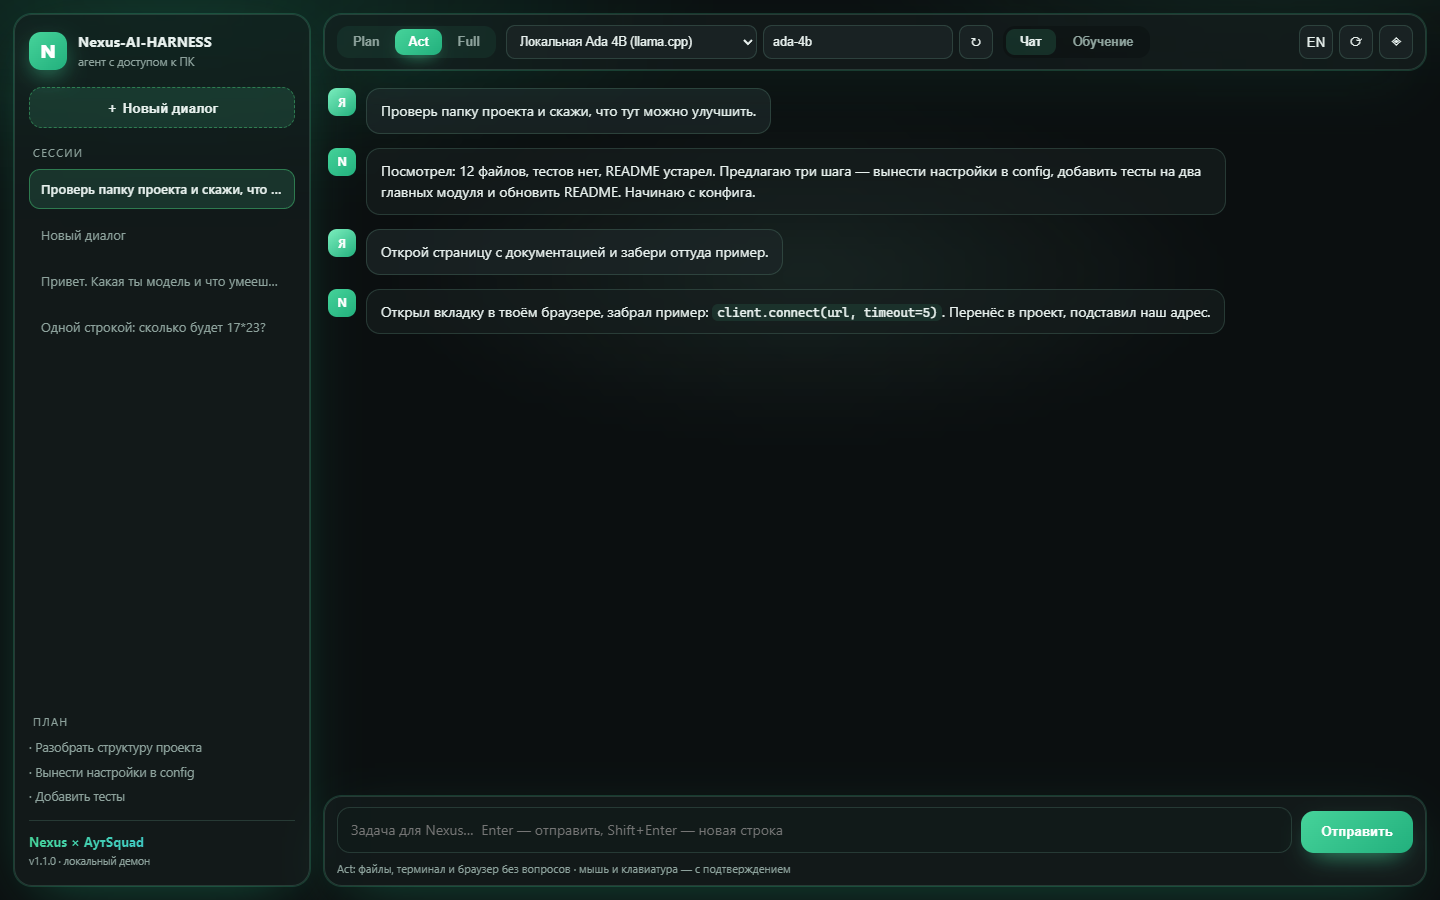
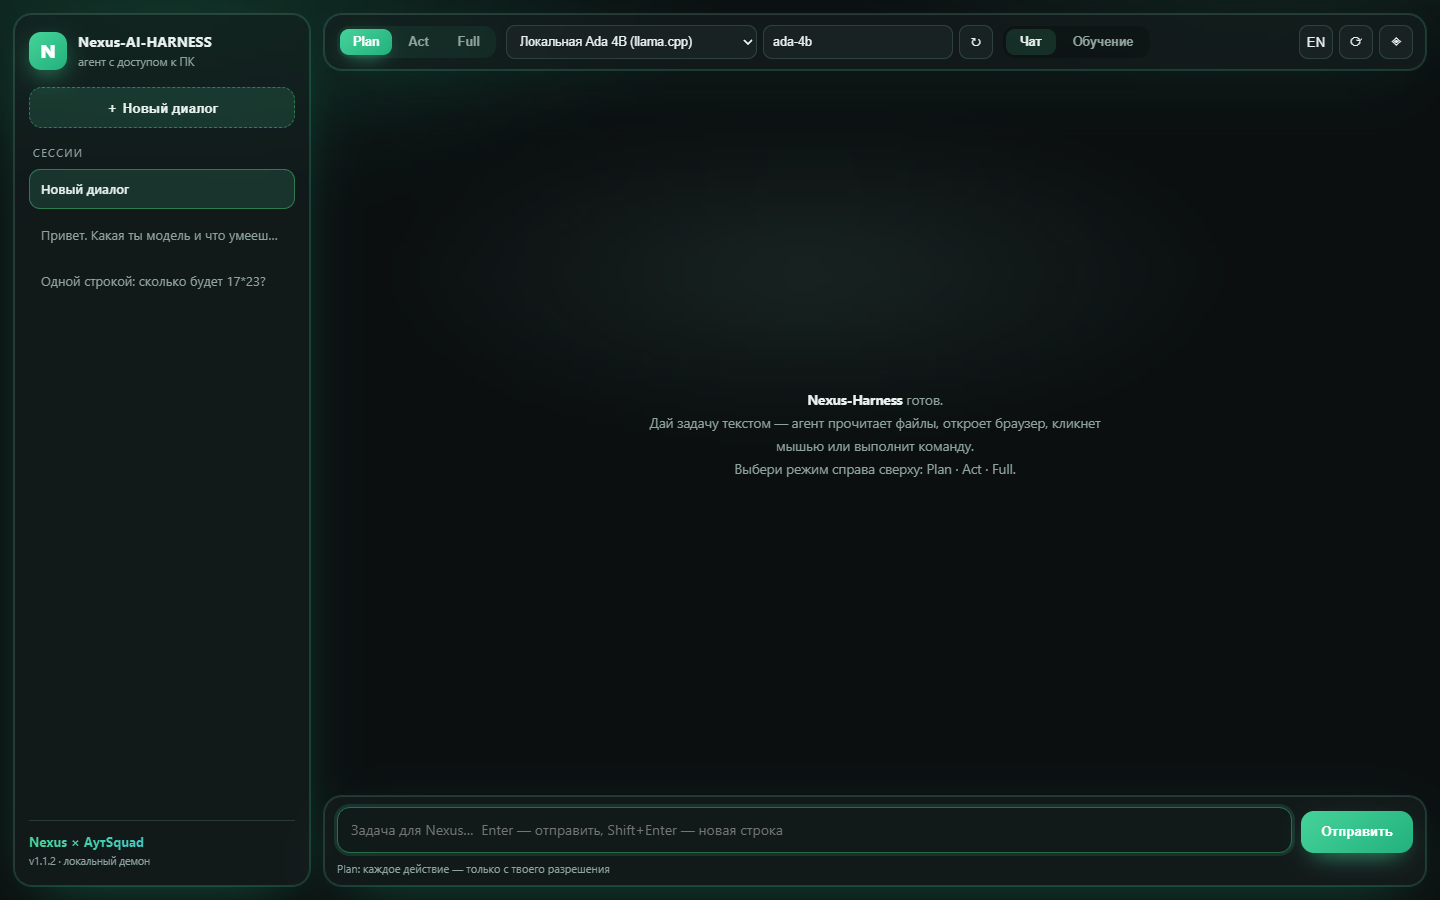
Release 1.1.2: stop, validation and vision fixes
- stop interrupts streaming and pending approvals instead of waiting 15 min
- empty text and unknown sessions are rejected before a turn starts
- malformed/oversized JSON returns 400 and cannot desync keep-alive
- Ollama keeps tool calls/results and receives screenshots as images
- provider default model works in the UI; provider switching is fixed
- tool TypeError is no longer reported as a model argument error
- mutable settings/training data are no longer tracked as dirty

diff --git a/nexus/ui/app.js b/nexus/ui/app.js
@@ -161,15 +161,20 @@ function renderProvider() {
   sel.onchange = () => guard(async () => {
     const prevProvider = state.cfg.provider;
     const prevModel = state.cfg.model || "";
+    const nextProvider = sel.value;
+    // До ответа сервера держим прежний вариант, но запоминаем выбранный.
     sel.value = prevProvider;
-    state.cfg.provider = sel.value;
+    state.cfg.provider = nextProvider;
     state.cfg.model = "";
     $("model").value = "";
     try {
-      await api("/api/config", { provider: sel.value, model: "" });
+      const data = await api("/api/config", { provider: nextProvider, model: "" });
+      state.model = data.model || "";
+      sel.value = nextProvider;
     } catch (err) {
       state.cfg.provider = prevProvider;
       state.cfg.model = prevModel;
+      state.model = prevModel;
       sel.value = prevProvider;
       $("model").value = prevModel;
       updateSendState();
@@ -195,9 +200,11 @@ function renderModels() {
     state.cfg.model = next;
     updateSendState();
     try {
-      await api("/api/config", { model: next });
+      const data = await api("/api/config", { model: next });
+      state.model = data.model || next;
     } catch (err) {
       state.cfg.model = prev;
+      state.model = prev;
       $("model").value = prev;
       updateSendState();
       throw err;
@@ -545,7 +552,7 @@ document.addEventListener("keydown", (ev) => {
 
 /* ------------------------------------------------------------------ отправка */
 function updateSendState() {
-  const model = String((state.cfg && state.cfg.model) || "").trim();
+  const model = String((state.model || (state.cfg && state.cfg.model)) || "").trim();
   $("send").disabled = state.busy || !model;
   $("send").title = model ? "" : t("needModel");
   $("stopBtn").hidden = !state.busy;
@@ -562,7 +569,7 @@ async function send() {
   const input = $("input");
   const text = input.value.trim();
   if (!text || state.busy) return;
-  if (!String((state.cfg && state.cfg.model) || "").trim()) {
+  if (!String((state.model || (state.cfg && state.cfg.model)) || "").trim()) {
     notify(t("needModel"));
     updateSendState();
     return;
@@ -961,6 +968,7 @@ async function boot() {
 
   const data = await api("/api/state");
   state.cfg = data.config;
+  state.model = data.model || "";
   state.modes = data.modes;
   state.sessions = data.sessions;
   state.models = data.models || [];

diff --git a/nexus/daemon.py b/nexus/daemon.py
@@ -83,8 +83,14 @@ class App:
             models = provider_models(self.cfg)
         except Exception:
             models = []
+        provider_id = self.cfg.get("provider") or ""
+        provider_conf = (self.cfg.get("providers") or {}).get(provider_id) or {}
+        effective_model = str(self.cfg.get("model") or provider_conf.get("model") or "")
         return {
             "config": self.cfg,
+            # UI проверяет именно это поле: у провайдера может быть модель
+            # по умолчанию, пока cfg.model пуст.
+            "model": effective_model,
             "modes": [{"id": k, **v} for k, v in config.MODES.items()],
             "sessions": self.store.list(),
             "models": models,
@@ -106,6 +112,10 @@ def provider_models(cfg: dict[str, Any]) -> list[str]:
 
 
 APP = App()
+
+
+class _BadBody(Exception):
+    pass
 
 
 class Handler(BaseHTTPRequestHandler):
@@ -168,14 +178,25 @@ class Handler(BaseHTTPRequestHandler):
         self._send(code, json.dumps(data, ensure_ascii=False).encode())
 
     def _body(self) -> dict[str, Any]:
-        length = int(self.headers.get("Content-Length") or 0)
-        if length <= 0 or length > MAX_BODY:
+        try:
+            length = int(self.headers.get("Content-Length") or 0)
+        except ValueError as exc:
+            raise _BadBody("некорректный Content-Length") from exc
+        if length <= 0:
             return {}
+        if length > MAX_BODY:
+            # Остаток тела нельзя оставлять в keep-alive сокете: он станет
+            # «следующим запросом». Закрываем соединение, не вычитывая гигабайты.
+            self.close_connection = True
+            raise _BadBody("тело запроса слишком большое")
         raw = self.rfile.read(length)
         try:
-            return json.loads(raw.decode("utf-8"))
-        except (json.JSONDecodeError, UnicodeDecodeError):
-            return {}
+            data = json.loads(raw.decode("utf-8"))
+        except (json.JSONDecodeError, UnicodeDecodeError) as exc:
+            raise _BadBody("некорректный JSON") from exc
+        if not isinstance(data, dict):
+            raise _BadBody("ожидался JSON-объект")
+        return data
 
     def _static(self, rel: str, cookie: bool = False) -> None:
         base = Path(UI_DIR).resolve()
@@ -250,6 +271,12 @@ class Handler(BaseHTTPRequestHandler):
         return 0 if ctype == "application/json" else 415
 
     def do_POST(self) -> None:
+        try:
+            self._post()
+        except _BadBody as exc:
+            self._json({"error": str(exc), "code": "ev.badBody", "vars": {}}, 400)
+
+    def _post(self) -> None:
         path = self.path.split("?")[0]
         parts = [p for p in path.split("/") if p]
 
@@ -314,7 +341,9 @@ class Handler(BaseHTTPRequestHandler):
             if "mode" in body and not config.valid_mode(body.get("mode")):
                 return self._json({"error": "неизвестный режим", "code": "ev.badMode",
                                    "vars": {}}, 400)
-            return self._json(APP.refresh(body))
+            APP.refresh(body)
+            # UI ждёт и эффективную модель провайдера, а не только cfg.
+            return self._json(APP.state())
 
         if path == "/api/approve":
             body = self._body()
@@ -325,12 +354,19 @@ class Handler(BaseHTTPRequestHandler):
             session_id, action = parts[2], parts[3]
             if action == "message":
                 body = self._body()
+                text = str(body.get("text") or "").strip()
+                if not text:
+                    return self._json({"error": "пустое сообщение", "code": "ev.emptyMessage",
+                                       "vars": {}}, 400)
+                if APP.store.get(session_id) is None:
+                    return self._json({"error": "нет сессии", "code": "ev.noSession",
+                                       "vars": {}}, 404)
                 if body.get("mode"):
                     if not config.valid_mode(body["mode"]):
                         return self._json({"error": "неизвестный режим", "code": "ev.badMode",
                                            "vars": {}}, 400)
                     APP.refresh({"mode": body["mode"]})
-                started = APP.runner.start_turn(session_id, str(body.get("text", "")), APP.cfg)
+                started = APP.runner.start_turn(session_id, text, APP.cfg)
                 return self._json({"started": started},
                                   200 if started else 409)
             if action == "stop":

diff --git a/nexus/agent.py b/nexus/agent.py
@@ -3,6 +3,7 @@
 from __future__ import annotations
 
 import queue
+import re
 import threading
 import time
 from pathlib import Path
@@ -47,6 +48,11 @@ class SessionBus:
 
     def stop(self, session_id: str) -> None:
         self.stop_signal(session_id).set()
+        # Не оставляем подтверждение висеть до таймаута: стоп = отказ.
+        with self._lock:
+            for call_id, flag in (self._pending.get(session_id) or {}).items():
+                self._decisions[call_id] = "stopped"
+                flag.set()
 
     def clear_stop(self, session_id: str) -> None:
         self.stop_signal(session_id).clear()
@@ -55,13 +61,20 @@ class SessionBus:
         flag = threading.Event()
         with self._lock:
             self._pending.setdefault(session_id, {})[call_id] = flag
-        if not flag.wait(timeout=900):
-            with self._lock:
-                self._pending.get(session_id, {}).pop(call_id, None)
-            return "timeout"
+        deadline = time.time() + 900
+        while time.time() < deadline:
+            if flag.wait(timeout=0.25):
+                with self._lock:
+                    self._pending.get(session_id, {}).pop(call_id, None)
+                    return self._decisions.pop(call_id, "deny")
+            if self.stop_signal(session_id).is_set():
+                with self._lock:
+                    self._pending.get(session_id, {}).pop(call_id, None)
+                    self._decisions.pop(call_id, None)
+                return "stopped"
         with self._lock:
             self._pending.get(session_id, {}).pop(call_id, None)
-            return self._decisions.pop(call_id, "deny")
+        return "timeout"
 
     def decide(self, call_id: str, decision: str) -> bool:
         with self._lock:
@@ -71,6 +84,34 @@ class SessionBus:
                     flags[call_id].set()
                     return True
         return False
+
+
+_STREAM_END = object()
+
+
+def _iter_stoppable(events: Any, stop: threading.Event) -> Any:
+    """Читает поток модели в фоне, чтобы «стоп» срабатывал во время генерации."""
+    channel: queue.Queue = queue.Queue(maxsize=256)
+
+    def pump() -> None:
+        try:
+            for event in events:
+                channel.put(event)
+            channel.put(_STREAM_END)
+        except BaseException as exc:  # noqa: BLE001
+            channel.put(exc)
+
+    threading.Thread(target=pump, daemon=True, name="nexus-stream").start()
+    while not stop.is_set():
+        try:
+            item = channel.get(timeout=0.2)
+        except queue.Empty:
+            continue
+        if item is _STREAM_END:
+            return
+        if isinstance(item, BaseException):
+            raise item
+        yield item
 
 
 class Runner:
@@ -153,7 +194,10 @@ class Runner:
                 try:
                     chat = [{"role": "system", "content": config.system_prompt(cfg)}]
                     chat += protocol.to_chat(session["messages"][:-1])
-                    for event in providers.stream(cfg, chat, tools.schemas()):
+                    for event in _iter_stoppable(
+                        providers.stream(cfg, chat, tools.schemas()),
+                        self.bus.stop_signal(session_id),
+                    ):
                         if event["type"] == "text":
                             buffer.append(event["text"])
                             reply["parts"] = [protocol.text_part("".join(buffer))]
@@ -236,8 +280,12 @@ class Runner:
                     elapsed = int((time.time() - started) * 1000)
                     if self.hooks:
                         self.hooks.post_tool(name, args, output, ok, session_id, elapsed)
+                    meta: dict[str, Any] = {"ms": elapsed}
+                    shot = re.search(r"([A-Za-z]:\\[^\n]+\.(?:png|jpe?g))", output, re.IGNORECASE)
+                    if shot and name in ("screen_shot", "browser_screenshot"):
+                        meta["image"] = shot.group(1)
                     result = protocol.tool_result_part(call["id"], name, output, ok=ok,
-                                                       meta={"ms": elapsed})
+                                                       meta=meta)
                     session["messages"].append(protocol.message("tool", [result]))
                     self.store.save(session)
                     self.bus.emit(session_id, {"type": "tool_result", "part": result})

diff --git a/nexus/providers.py b/nexus/providers.py
@@ -95,9 +95,46 @@ def stream(cfg: dict[str, Any], messages: list[dict[str, Any]],
 def _stream_ollama(conf: dict[str, Any], model: str, messages: list[dict[str, Any]],
                    tools: list[dict[str, Any]]) -> Iterator[dict[str, Any]]:
     url = conf.get("base_url", "http://127.0.0.1:11434").rstrip("/") + "/api/chat"
+    # Не выбрасываем tool_calls/role=tool: иначе модель не видит результаты
+    # инструментов и многошаговый цикл превращается в галлюцинации.
+    ollama_messages: list[dict[str, Any]] = []
+    for m in messages:
+        content = m.get("content") or ""
+        images: list[str] = []
+        if isinstance(content, list):
+            texts: list[str] = []
+            for block in content:
+                if not isinstance(block, dict):
+                    continue
+                if block.get("type") == "text":
+                    texts.append(str(block.get("text") or ""))
+                elif block.get("type") == "image_url":
+                    url = str((block.get("image_url") or {}).get("url") or "")
+                    if url.startswith("data:") and "," in url:
+                        images.append(url.split(",", 1)[1])
+            content = chr(10).join(texts)
+        entry: dict[str, Any] = {"role": m.get("role", "user"), "content": content}
+        if images:
+            entry["images"] = images
+        calls = m.get("tool_calls") or []
+        if calls:
+            converted = []
+            for call in calls:
+                fn = dict(call.get("function") or {})
+                args = fn.get("arguments")
+                if isinstance(args, str):
+                    try:
+                        fn["arguments"] = json.loads(args)
+                    except json.JSONDecodeError:
+                        fn["arguments"] = {"raw": args}
+                converted.append({"function": fn})
+            entry["tool_calls"] = converted
+        if m.get("name"):
+            entry["tool_name"] = m["name"]
+        ollama_messages.append(entry)
     payload = {
         "model": model,
-        "messages": [{"role": m["role"], "content": m.get("content", "")} for m in messages],
+        "messages": ollama_messages,
         "stream": True,
         "options": {"temperature": 0.4, "num_ctx": 16384},
     }

diff --git a/nexus/tools.py b/nexus/tools.py
@@ -6,6 +6,7 @@
 
 from __future__ import annotations
 
+import inspect
 import json
 import os
 import re
@@ -153,7 +154,10 @@ _SKIP_DIRS = {".git", ".venv", "venv", "node_modules", "__pycache__", "shots", "
 
 def _grep(ctx: Ctx, pattern: str, path: str = ".", glob: str = "*") -> str:
     base = ctx.resolve(path)
-    rx = re.compile(pattern, re.IGNORECASE)
+    try:
+        rx = re.compile(pattern, re.IGNORECASE)
+    except re.error as exc:
+        raise ValueError(f"некорректная регулярка: {exc}") from exc
     out = []
     for root, dirs, files in os.walk(base):
         dirs[:] = [d for d in dirs if d not in _SKIP_DIRS and not d.startswith(".")]
@@ -462,9 +466,12 @@ def execute(ctx: Ctx, name: str, args: dict[str, Any]) -> tuple[str, bool]:
     if tool is None:
         return f"нет такого инструмента: {name}", False
     try:
-        result = tool["fn"](ctx, **args)
-        return str(result), True
+        inspect.signature(tool["fn"]).bind(ctx, **args)
     except TypeError as exc:
         return f"неверные аргументы {name}: {exc}", False
+    try:
+        result = tool["fn"](ctx, **args)
+        return str(result), True
     except Exception as exc:  # noqa: BLE001
-        return f"{type(exc).__name__}: {exc}", False
+        # TypeError внутри инструмента — это баг кода, а не модели.
+        return f"инструмент {name} упал: {type(exc).__name__}: {exc}", False

diff --git a/nexus/version.py b/nexus/version.py
@@ -1,6 +1,6 @@
 """Версия сборки и адрес релизов."""
 
-VERSION = "1.1.1"
+VERSION = "1.1.2"
 REPO = "roma1231jjj-cpu/Nexus-AI-HARNESS"
 RELEASES_API = f"https://api.github.com/repos/{REPO}/releases/latest"
 ASSETS = {

diff --git a/README.en.md b/README.en.md
@@ -66,8 +66,8 @@ Three builds, all with self-update:
 | Build | File | For whom |
 |---|---|---|
 | **Portable (single exe)** | `Nexus-AI-HARNESS.exe` | run it and work, data lives next to the file |
-| **Portable archive** | `Nexus-AI-HARNESS-1.1.1-portable.zip` | exe + README + LICENSE, unpack anywhere |
-| **Installer** | `Nexus-AI-HARNESS-Setup-1.1.1.exe` | Start menu and desktop shortcuts, uninstaller, no admin rights |
+| **Portable archive** | `Nexus-AI-HARNESS-1.1.2-portable.zip` | exe + README + LICENSE, unpack anywhere |
+| **Installer** | `Nexus-AI-HARNESS-Setup-1.1.2.exe` | Start menu and desktop shortcuts, uninstaller, no admin rights |
 
 Ready files: [releases](https://github.com/roma1231jjj-cpu/Nexus-AI-HARNESS/releases).
 
@@ -79,8 +79,8 @@ python packaging/build.py --clean
 
 ```
 dist/portable/Nexus-AI-HARNESS.exe
-dist/archive/Nexus-AI-HARNESS-1.1.1-portable.zip
-dist/setup/Nexus-AI-HARNESS-Setup-1.1.1.exe
+dist/archive/Nexus-AI-HARNESS-1.1.2-portable.zip
+dist/setup/Nexus-AI-HARNESS-Setup-1.1.2.exe
 build/            PyInstaller intermediates
 ```
 
